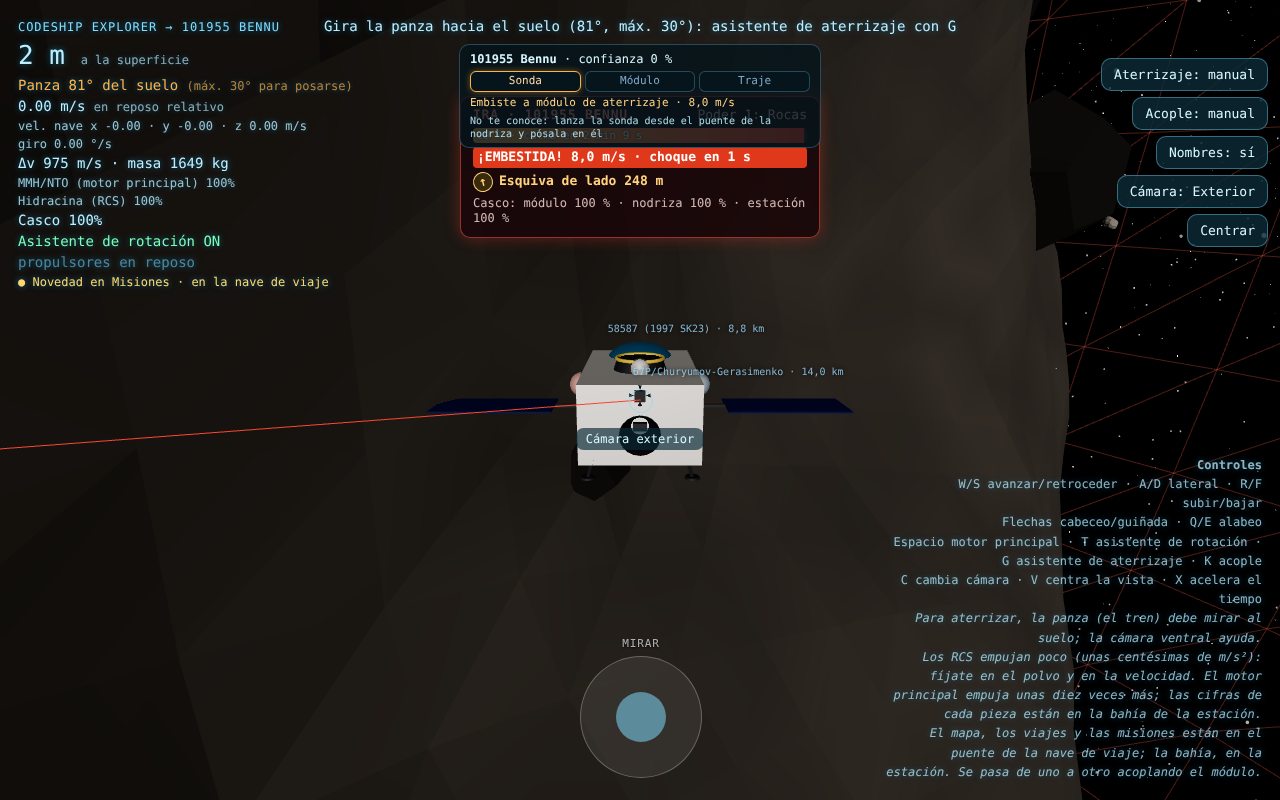
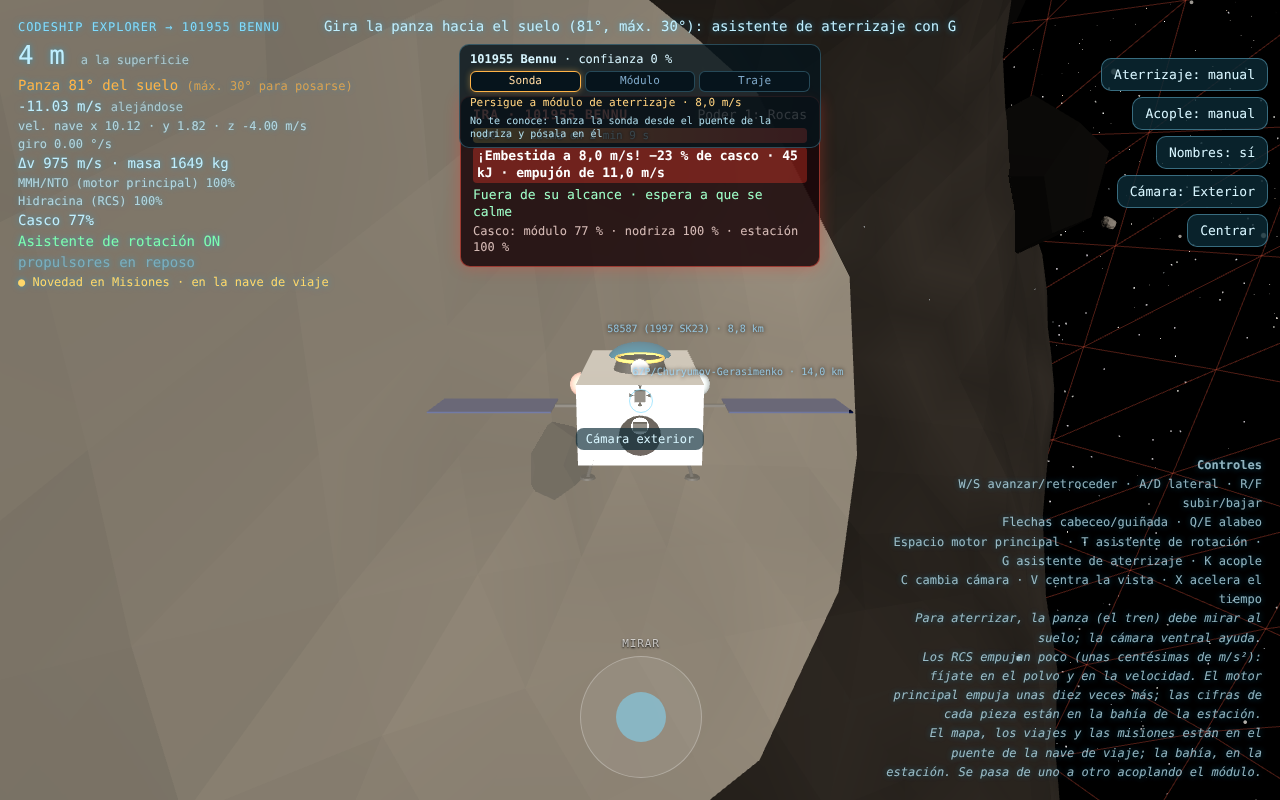
Embestida: capturas de esquiva, pasada de largo, mapa e impacto (iPhone 13 y 1280×800)
Claude-Session: https://claude.ai/code/session_013f2k3BKu3GvWho9ZkdeNDk

diff --git a/docs/design/poderes-ira.md b/docs/design/poderes-ira.md
@@ -170,7 +170,7 @@ En `docs/screenshots/ira-{rocas,explosivo,supervivencia}-{mobile,desktop}.png` (
 - **Rocas y explosivo:** duelo fallido en la fase 2 contra 58587 (nivel 3), desde 700 m y con la cámara exterior.
 - **Supervivencia:** el módulo frente a la estación, con Bennu con poder de nivel 4 mediante el gancho de demostración `demoTier`, porque en la región no hay ningún asteroide de nivel 4. El juego nunca lo llama.
 - **Puente:** `ira-puente-{mobile,desktop}.png`, la misma situación vista desde el puente de la nodriza.
-- **Embestida:** `embestida-{1-aviso,2-carga,3-impacto,4-esquiva,5-pasada,6-mapa}-{mobile,desktop}.png`. El módulo parado a 240 m de Bennu, duelo fallido de fase 2 con la ira fijada a 1 por código. Aviso, carga, choque; luego otra carga esquivada con un empuje lateral puesto por código, la pasada de largo y la línea en el mapa del puente.
+- **Embestida:** `embestida-{1-aviso,2-carga,3-impacto,4-esquiva,5-pasada,6-mapa}-{mobile,desktop}.png`. El módulo parado a 240 m de Bennu, duelo fallido de fase 2 con la ira fijada a 1 por código. Aviso, carga, choque; luego otra carga, desde 110 m, esquivada con un empuje lateral puesto por código, la pasada de largo y el mapa (marca «va a embestir», línea hasta el punto al que apunta). El aviso de radio se oculta por código en las capturas para que no tape la tarjeta.
 
 ## 8. Preguntas abiertas
 
